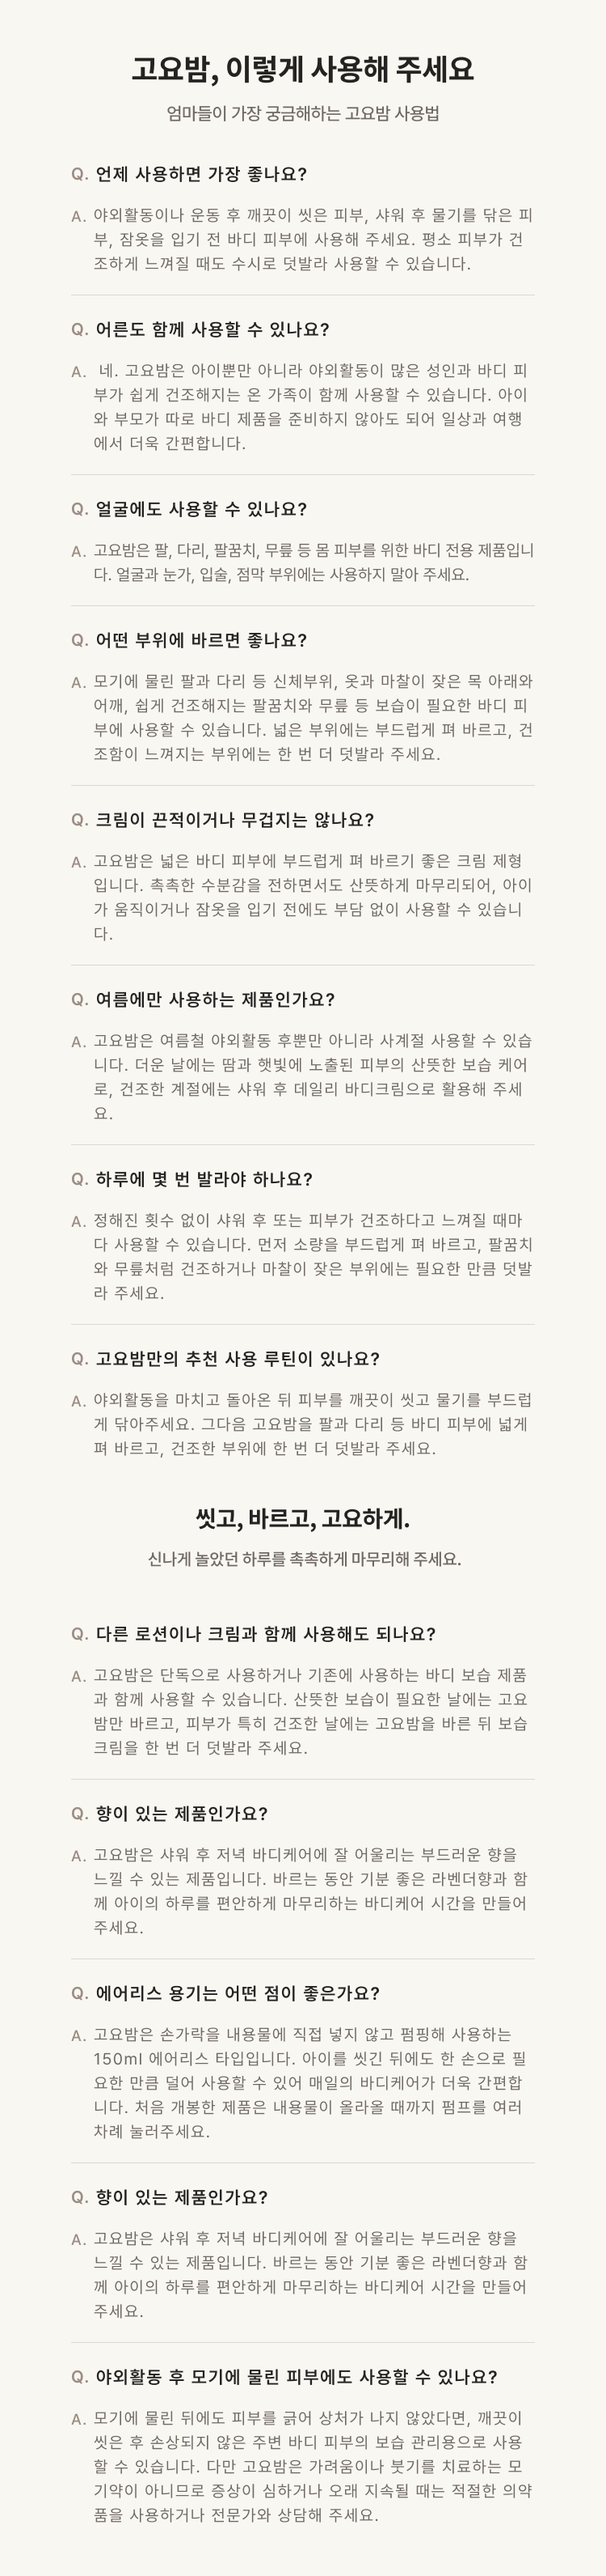
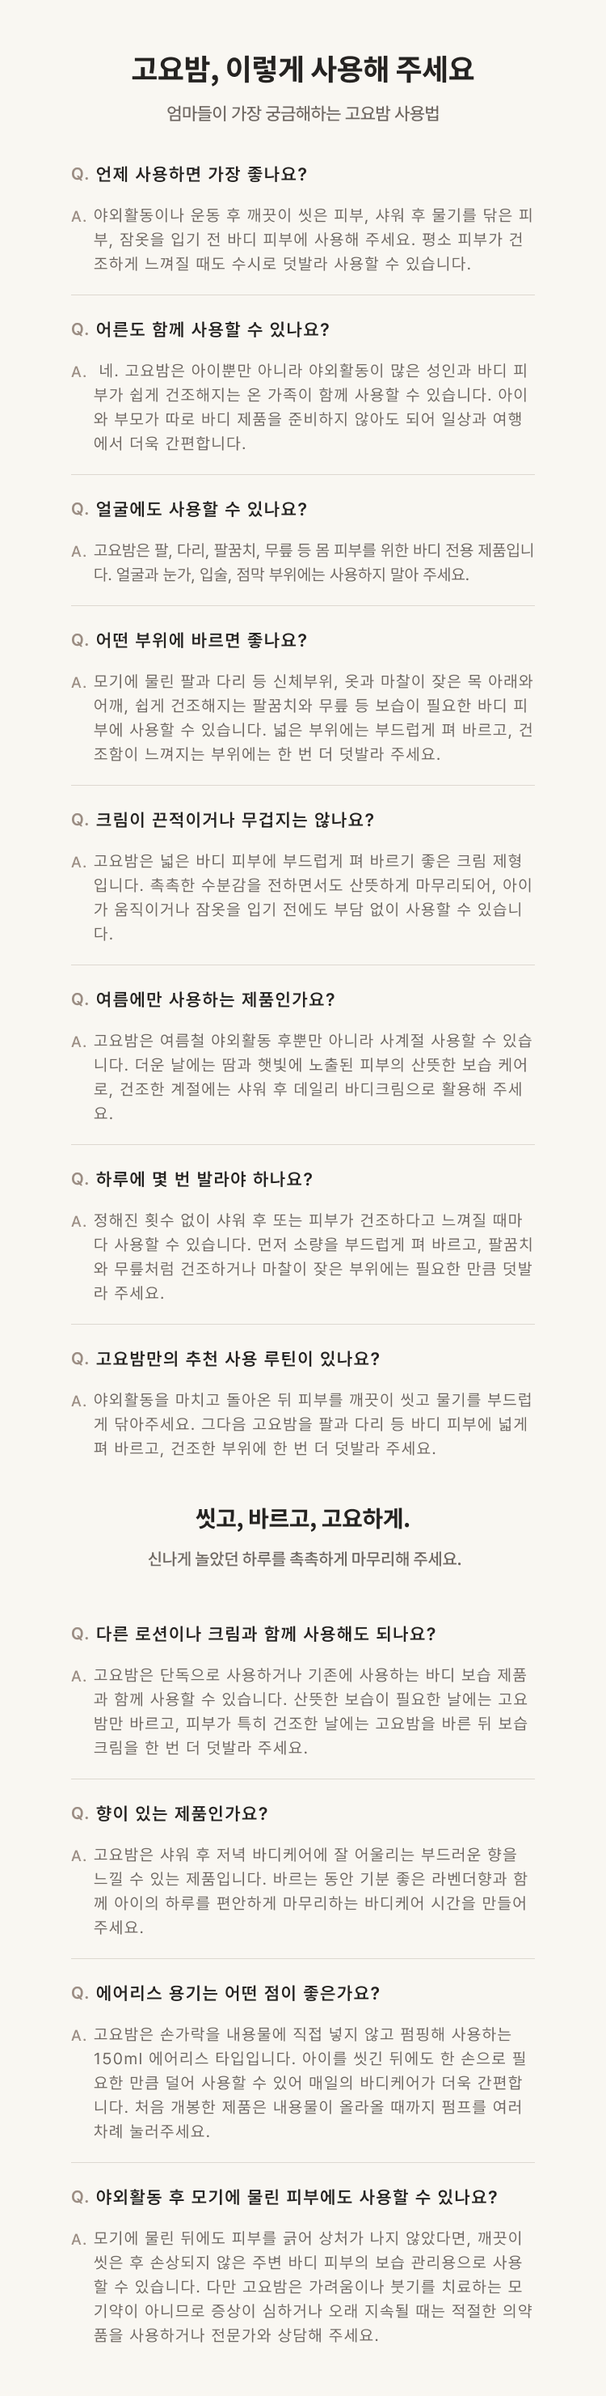
fix: replace GOYOBAM detail page 13

Changed region(s): [[0.1227, 0.0, 0.8893, 0.9943], [0.368, 0.0, 0.3987, 0.0311]]

diff --git a/resole-lotion-demo/index.html b/resole-lotion-demo/index.html
@@ -54,8 +54,8 @@
       <div class="store-section-head"><div><p class="section-kicker">NEW ARRIVAL</p><h2>새롭게 만나는 RESOLE</h2></div><a href="#all">전체보기 <span>→</span></a></div>
       <div class="product-rail" aria-label="신상품 목록">
         <article class="product-card">
-          <a href="product/goyobam.html?v=20260908-r8" class="product-image-wrap"><span class="card-badge mist">NEW</span><img src="assets/goyobam/shop/thumb01.png?v=20260827-r1" alt="ROOTEDIT GOYOBAM 고요밤 150 ml" /></a>
-          <div class="product-card-body"><p class="product-brand">ROOTEDIT</p><a href="product/goyobam.html?v=20260908-r8" class="product-name">GOYOBAM 고요밤 150 ml</a><div class="product-availability"><strong>PORTFOLIO</strong><span>상세 보기</span></div><p class="product-meta">아이 피부 케어, 무엇부터 달라야 할까요?</p></div>
+          <a href="product/goyobam.html?v=20260908-r9" class="product-image-wrap"><span class="card-badge mist">NEW</span><img src="assets/goyobam/shop/thumb01.png?v=20260827-r1" alt="ROOTEDIT GOYOBAM 고요밤 150 ml" /></a>
+          <div class="product-card-body"><p class="product-brand">ROOTEDIT</p><a href="product/goyobam.html?v=20260908-r9" class="product-name">GOYOBAM 고요밤 150 ml</a><div class="product-availability"><strong>PORTFOLIO</strong><span>상세 보기</span></div><p class="product-meta">아이 피부 케어, 무엇부터 달라야 할까요?</p></div>
         </article>
         <article class="product-card">
           <a href="product/cream-mist.html" class="product-image-wrap"><span class="card-badge mist">NEW</span><img src="assets/cream-mist/shop/thumb01.jpg" alt="RESOLE 크림 미스트 80 mL" /></a>
@@ -82,7 +82,7 @@
     <section id="all" class="store-section store-shell compact-bottom">
       <div class="store-section-head"><div><p class="section-kicker">ALL PRODUCTS</p><h2>전체 상품</h2></div></div>
       <div class="all-product-grid">
-        <article class="product-card"><a href="product/goyobam.html?v=20260908-r8" class="product-image-wrap"><img src="assets/goyobam/shop/thumb06.png?v=20260827-r1" alt="ROOTEDIT GOYOBAM 고요밤 150 ml" /></a><div class="product-card-body"><p class="product-brand">ROOTEDIT</p><a href="product/goyobam.html?v=20260908-r8" class="product-name">GOYOBAM 고요밤 150 ml</a><div class="product-availability"><strong>PORTFOLIO</strong><span>상세 보기</span></div></div></article>
+        <article class="product-card"><a href="product/goyobam.html?v=20260908-r9" class="product-image-wrap"><img src="assets/goyobam/shop/thumb06.png?v=20260827-r1" alt="ROOTEDIT GOYOBAM 고요밤 150 ml" /></a><div class="product-card-body"><p class="product-brand">ROOTEDIT</p><a href="product/goyobam.html?v=20260908-r9" class="product-name">GOYOBAM 고요밤 150 ml</a><div class="product-availability"><strong>PORTFOLIO</strong><span>상세 보기</span></div></div></article>
         <article class="product-card"><a href="product/cream-mist.html" class="product-image-wrap"><img src="assets/cream-mist/shop/thumb05.jpg" alt="RESOLE 크림 미스트 80 mL" /></a><div class="product-card-body"><p class="product-brand">RESOLE</p><a href="product/cream-mist.html" class="product-name">크림 미스트 80 mL</a><div class="product-price"><strong>23,000원</strong><span>30%</span></div></div></article>
         <article class="product-card"><a href="product/radiance-body-mist.html" class="product-image-wrap"><img src="assets/body-mist/shop/S-06_thumb.png" alt="리솔90 레디언스 바디미스트 100 mL" /></a><div class="product-card-body"><p class="product-brand">RESOLE90</p><a href="product/radiance-body-mist.html" class="product-name">레디언스 바디미스트 100 mL</a><div class="product-availability"><strong>런칭 기념</strong><span>혜택 확인</span></div></div></article>
         <article class="product-card"><a href="product/barrier-lotion.html" class="product-image-wrap"><img src="../thumbs/thum03_00001_.png" alt="RESOLE 배리어 로션 300 mL" /></a><div class="product-card-body"><p class="product-brand">RESOLE</p><a href="product/barrier-lotion.html" class="product-name">배리어 로션 300 mL</a><div class="product-price"><strong>21,900원</strong><span>31%</span><del>31,900원</del></div></div></article>

diff --git a/resole-lotion-demo/product/goyobam.html b/resole-lotion-demo/product/goyobam.html
@@ -50,7 +50,7 @@
     </section>
     <nav class="detail-tabs store-shell"><a class="active" href="#detail">상세페이지</a><a href="#info">프로젝트 정보</a><a href="#faq">안내</a></nav>
     <section id="detail" class="mist-detail-section">
-      <iframe class="mist-detail-frame" data-detail-frame title="ROOTEDIT GOYOBAM 고요밤 상세페이지" src="../goyobam/index.html?v=20260908-r8" loading="eager" scrolling="no"></iframe>
+      <iframe class="mist-detail-frame" data-detail-frame title="ROOTEDIT GOYOBAM 고요밤 상세페이지" src="../goyobam/index.html?v=20260908-r9" loading="eager" scrolling="no"></iframe>
     </section>
     <section id="info" class="info-section store-shell detail-narrow"><h2>프로젝트 정보</h2><div class="info-grid"><div><span>브랜드</span><strong>ROOTEDIT</strong></div><div><span>제품명</span><strong>GOYOBAM 고요밤</strong></div><div><span>용량</span><strong>150 ml / 5.07 fl. oz.</strong></div></div></section>
     <section id="faq" class="faq store-shell detail-narrow"><h2>안내</h2><details open><summary>이 페이지는 실제 판매 페이지인가요?</summary><p>본 페이지는 상세페이지 디자인 포트폴리오 시안이며 실제 결제는 제공되지 않습니다.</p></details></section>

diff --git a/resole-lotion-demo/goyobam/index.html b/resole-lotion-demo/goyobam/index.html
@@ -28,7 +28,7 @@
     <img src="../assets/goyobam/detail/10.png?v=20260905-r7" alt="고요밤 상세 아트보드 10" width="750" height="1862" loading="lazy" />
     <img src="../assets/goyobam/detail/11.png?v=20260905-r7" alt="고요밤 상세 아트보드 11" width="750" height="1275" loading="lazy" />
     <img src="../assets/goyobam/detail/12.png?v=20260905-r7" alt="고요밤 상세 아트보드 12" width="750" height="1161" loading="lazy" />
-    <img src="../assets/goyobam/detail/13.png?v=20260908-r8" alt="고요밤 상세 아트보드 13" width="750" height="3183" loading="lazy" />
+    <img src="../assets/goyobam/detail/13.png?v=20260908-r9" alt="고요밤 상세 아트보드 13" width="750" height="2961" loading="lazy" />
     <img src="../assets/goyobam/detail/14.png?v=20260905-r7" alt="고요밤 상세 아트보드 14" width="750" height="1951" loading="lazy" />
     <img src="../assets/goyobam/detail/15.png?v=20260905-r7" alt="고요밤 상세 아트보드 15" width="750" height="1823" loading="lazy" />
   </main>
